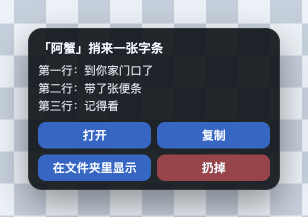
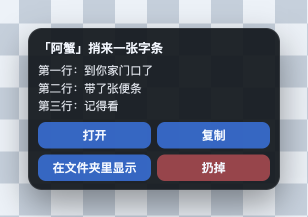
test(smoke): 补齐票 26 的两句气泡截图
- gift 段新增「收下了 / 没送到」两例，文案直接 import src/gift-text.js，不在冒烟里重写中文
- 截图按自己宠物的位置裁一圈，气泡字看得清（26-gift-notice-*.png）
- 票 26 最后一格勾上

diff --git a/.scratch/local-pet/issues/26-gift-receipt-and-copy.md b/.scratch/local-pet/issues/26-gift-receipt-and-copy.md
@@ -29,8 +29,10 @@
 - [x] `onPeer` 的 else 兜底是 `observeBeacon`：忘了加分支不会报错，只会被当 beacon 静默吞
 - [x] 退包/收回执要覆盖**所有**结束点，特别注意 `observeVisitRecall` 里「请求中被对方 recall」直接 `state.out=null`（绕过 `finishOutbound`），以及 `dispose`
 - [x] 重发照抄 `recalls` 那套：`receipts` Map + `sendGiftReceipt` + `runReceiptRetries`，`dispose` 里记得清
-- [ ] 冒烟：送达后的「收下了」气泡与没送达的「没送到」气泡各一张截图
-      （按分工没跑，父 agent 统一跑）
+- [x] 冒烟：送达后的「收下了」气泡与没送达的「没送到」气泡各一张截图
+      （gift 段新增两例，文案直接取 `src/gift-text.js` 的真身：
+       `.scratch/local-pet/notes/26-gift-notice-received.png` /
+       `26-gift-notice-not-received.png`；gift 段 96 项断言）
 
 > 完成情况：送达以对方回执为准，这条链路已经通了（ticket 26）。
 > **协议**：`PACKET_TYPES` 加 `gift-received`；`encodeGiftReceived` 与 `parsePacket` 各有一条
